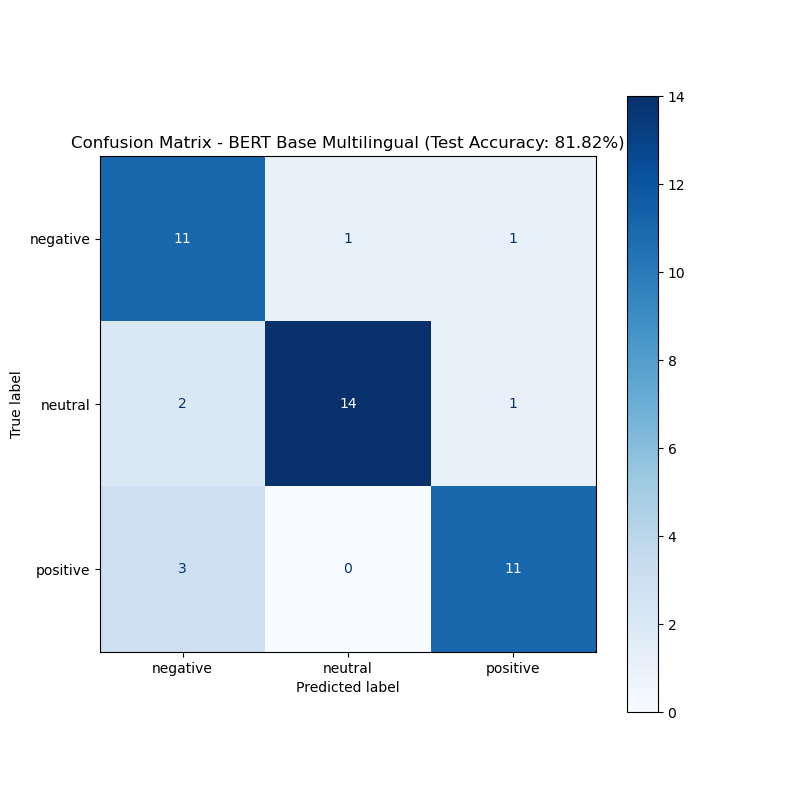
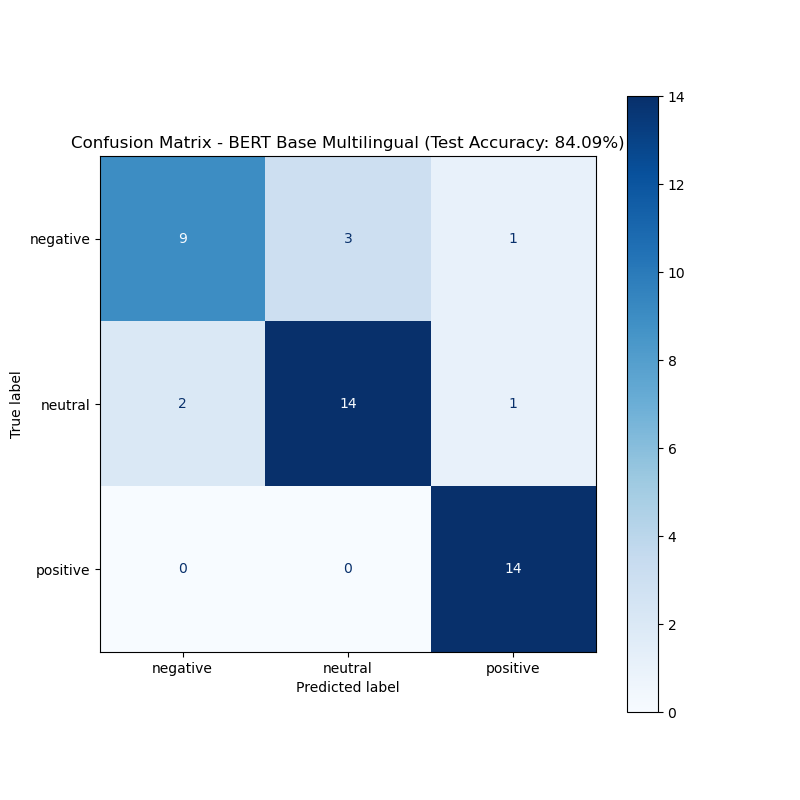
Optimize models: lock random seeds, restore configurations, and update results visualisations

diff --git a/Model/model_logistic_regression.py b/Model/model_logistic_regression.py
@@ -1,6 +1,20 @@
+import torch
 from common_utils import (
-    load_project_data, augment_text_data, class_names, RANDOM_STATE
+    load_project_data, augment_text_data, class_names
 )
+
+# --- CONFIGURATION & HYPERPARAMETERS ---
+BASE_PATH = '../'
+RANDOM_STATE = 12345
+BATCH_SIZE = 16 
+MAX_LEN = 64 
+NUM_EPOCHS = 20
+LEARNING_RATE = 1e-5
+WEIGHT_DECAY = 0.01
+WARMUP_STEPS = 500
+DEVICE = torch.device("cuda" if torch.cuda.is_available() else "cpu")
+MAX_FEATURES = 5000
+C_PARAM = 1.0
 from sklearn.model_selection import train_test_split
 from sklearn.feature_extraction.text import TfidfVectorizer
 from sklearn.linear_model import LogisticRegression
@@ -39,12 +53,12 @@ labels_data_encoded = train_data["sentiment_idx"].values
 )
 
 # TF-IDF Vectorization
-vectorizer = TfidfVectorizer(max_features=5000)
+vectorizer = TfidfVectorizer(max_features=MAX_FEATURES)
 X_train_tfidf = vectorizer.fit_transform(training_texts)
 X_test_tfidf = vectorizer.transform(testing_texts)
 
 # Initialize and Train Logistic Regression Model
-logreg_model = LogisticRegression(max_iter=1000, random_state=RANDOM_STATE, solver='liblinear') 
+logreg_model = LogisticRegression(max_iter=1000, random_state=RANDOM_STATE, solver='liblinear', C=C_PARAM) 
 logreg_model.fit(X_train_tfidf, training_labels)
 
 # Evaluate Logistic Regression Model

diff --git a/Model/model_naive_bayes.py b/Model/model_naive_bayes.py
@@ -1,6 +1,20 @@
+import torch
 from common_utils import (
-    load_project_data, augment_text_data, class_names, RANDOM_STATE
+    load_project_data, augment_text_data, class_names
 )
+
+# --- CONFIGURATION & HYPERPARAMETERS ---
+BASE_PATH = '../'
+RANDOM_STATE = 12345
+BATCH_SIZE = 16 
+MAX_LEN = 64 
+NUM_EPOCHS = 20
+LEARNING_RATE = 1e-5
+WEIGHT_DECAY = 0.01
+WARMUP_STEPS = 500
+DEVICE = torch.device("cuda" if torch.cuda.is_available() else "cpu")
+MAX_FEATURES = 5000
+ALPHA_PARAM = 1.0
 from sklearn.model_selection import train_test_split
 from sklearn.feature_extraction.text import TfidfVectorizer
 from sklearn.naive_bayes import MultinomialNB
@@ -39,12 +53,12 @@ labels_data_encoded = train_data["sentiment_idx"].values
 )
 
 # TF-IDF Vectorization
-vectorizer = TfidfVectorizer(max_features=5000)
+vectorizer = TfidfVectorizer(max_features=MAX_FEATURES)
 X_train_tfidf = vectorizer.fit_transform(training_texts)
 X_test_tfidf = vectorizer.transform(testing_texts)
 
 # Initialize and Train Multinomial Naive Bayes Model
-mnb_model = MultinomialNB()
+mnb_model = MultinomialNB(alpha=ALPHA_PARAM)
 mnb_model.fit(X_train_tfidf, training_labels)
 
 # Evaluate Multinomial Naive Bayes Model

diff --git a/Model/model_svm.py b/Model/model_svm.py
@@ -1,6 +1,21 @@
+import torch
 from common_utils import (
-    load_project_data, augment_text_data, class_names, RANDOM_STATE
+    load_project_data, augment_text_data, class_names
 )
+
+# --- CONFIGURATION & HYPERPARAMETERS ---
+
+BASE_PATH = '../'
+RANDOM_STATE = 12345
+BATCH_SIZE = 32 
+MAX_LEN = 64 
+NUM_EPOCHS = 16
+LEARNING_RATE = 1e-5
+WEIGHT_DECAY = 0.01
+WARMUP_STEPS = 500
+DEVICE = torch.device("cuda" if torch.cuda.is_available() else "cpu")
+MAX_FEATURES = 3000
+C_PARAM = 1.0
 from sklearn.model_selection import train_test_split
 from sklearn.feature_extraction.text import TfidfVectorizer
 from sklearn.svm import SVC
@@ -39,12 +54,12 @@ labels_data_encoded = train_data["sentiment_idx"].values
 )
 
 # TF-IDF Vectorization
-vectorizer = TfidfVectorizer(max_features=5000)
+vectorizer = TfidfVectorizer(max_features=MAX_FEATURES)
 X_train_tfidf = vectorizer.fit_transform(training_texts)
 X_test_tfidf = vectorizer.transform(testing_texts)
 
 # Initialize and Train SVM Model
-svm_model = SVC(kernel='linear', random_state=RANDOM_STATE)
+svm_model = SVC(kernel='linear', random_state=RANDOM_STATE, C=C_PARAM)
 svm_model.fit(X_train_tfidf, training_labels)
 
 # Evaluate SVM Model

diff --git a/Model/model_multilingual_bert.py b/Model/model_multilingual_bert.py
@@ -11,9 +11,19 @@ from transformers import AutoModelForSequenceClassification, AutoTokenizer, get_
 
 from common_utils import (
     load_project_data, augment_text_data, class_names, num_labels,
-    SentimentDataset, train_high_accuracy_model, evaluate_test,
-    RANDOM_STATE, MAX_LEN, BATCH_SIZE, DEVICE, LEARNING_RATE, WEIGHT_DECAY, NUM_EPOCHS, BASE_PATH
+    SentimentDataset, train_high_accuracy_model, evaluate_test
 )
+
+# --- CONFIGURATION & HYPERPARAMETERS ---
+BASE_PATH = '../'
+RANDOM_STATE = 12345
+BATCH_SIZE = 16 
+MAX_LEN = 64 
+NUM_EPOCHS = 20
+LEARNING_RATE = 1e-5
+WEIGHT_DECAY = 0.01
+WARMUP_STEPS = 500
+DEVICE = torch.device("cuda" if torch.cuda.is_available() else "cpu")
 
 print("--- Training BERT Base Multilingual Uncased Model ---")
 MODEL_NAME_MULTILINGUAL_BERT = "bert-base-multilingual-uncased"

diff --git a/Model/model_distilbert.py b/Model/model_distilbert.py
@@ -11,9 +11,19 @@ from transformers import AutoModelForSequenceClassification, AutoTokenizer, get_
 
 from common_utils import (
     load_project_data, augment_text_data, class_names, num_labels,
-    SentimentDataset, train_high_accuracy_model, evaluate_test,
-    RANDOM_STATE, MAX_LEN, BATCH_SIZE, DEVICE, LEARNING_RATE, WEIGHT_DECAY, NUM_EPOCHS, BASE_PATH
+    SentimentDataset, train_high_accuracy_model, evaluate_test
 )
+
+# --- CONFIGURATION & HYPERPARAMETERS ---
+BASE_PATH = '../'
+RANDOM_STATE = 12345
+BATCH_SIZE = 16 
+MAX_LEN = 64 
+NUM_EPOCHS = 15
+LEARNING_RATE = 2e-5
+WEIGHT_DECAY = 0.01
+WARMUP_STEPS = 500
+DEVICE = torch.device("cuda" if torch.cuda.is_available() else "cpu")
 
 print("--- Training DistilBERT Base Uncased Model ---")
 MODEL_NAME_DISTILBERT = "distilbert-base-uncased"

diff --git a/Model/model_roberta.py b/Model/model_roberta.py
@@ -11,9 +11,19 @@ from transformers import AutoModelForSequenceClassification, AutoTokenizer, get_
 
 from common_utils import (
     load_project_data, augment_text_data, class_names, num_labels,
-    SentimentDataset, train_high_accuracy_model, evaluate_test,
-    RANDOM_STATE, MAX_LEN, BATCH_SIZE, DEVICE, LEARNING_RATE, WEIGHT_DECAY, NUM_EPOCHS, BASE_PATH
+    SentimentDataset, train_high_accuracy_model, evaluate_test
 )
+
+# --- CONFIGURATION & HYPERPARAMETERS ---
+BASE_PATH = '../'
+RANDOM_STATE = 12345
+BATCH_SIZE = 16 
+MAX_LEN = 64 
+NUM_EPOCHS = 20
+LEARNING_RATE = 1e-5
+WEIGHT_DECAY = 0.01
+WARMUP_STEPS = 500
+DEVICE = torch.device("cuda" if torch.cuda.is_available() else "cpu")
 
 print("--- Training RoBERTa Model ---")
 MODEL_NAME = "cardiffnlp/twitter-xlm-roberta-base-sentiment"

diff --git a/Model/model_bert.py b/Model/model_bert.py
@@ -11,9 +11,19 @@ from transformers import AutoModelForSequenceClassification, AutoTokenizer, get_
 
 from common_utils import (
     load_project_data, augment_text_data, class_names, num_labels,
-    SentimentDataset, train_high_accuracy_model, evaluate_test,
-    RANDOM_STATE, MAX_LEN, BATCH_SIZE, DEVICE, LEARNING_RATE, WEIGHT_DECAY, NUM_EPOCHS, BASE_PATH
+    SentimentDataset, train_high_accuracy_model, evaluate_test
 )
+
+# --- CONFIGURATION & HYPERPARAMETERS ---
+BASE_PATH = '../'
+RANDOM_STATE = 12345
+BATCH_SIZE = 16 
+MAX_LEN = 64 
+NUM_EPOCHS = 20
+LEARNING_RATE = 1e-5
+WEIGHT_DECAY = 0.01
+WARMUP_STEPS = 500
+DEVICE = torch.device("cuda" if torch.cuda.is_available() else "cpu")
 
 print("--- Training BERT Base Uncased Model ---")
 MODEL_NAME_BERT = "bert-base-uncased"

diff --git a/Model/common_utils.py b/Model/common_utils.py
@@ -32,13 +32,16 @@ except LookupError:
 # Using local path for CSV files (parent directory)
 BASE_PATH = '../'
 RANDOM_STATE = 12345
-BATCH_SIZE = 16 
-MAX_LEN = 64 
-NUM_EPOCHS = 20
-LEARNING_RATE = 1e-5
-WEIGHT_DECAY = 0.01
-WARMUP_STEPS = 500
 DEVICE = torch.device("cuda" if torch.cuda.is_available() else "cpu")
+
+def set_seed(seed):
+    random.seed(seed)
+    np.random.seed(seed)
+    torch.manual_seed(seed)
+    if torch.cuda.is_available():
+        torch.cuda.manual_seed_all(seed)
+
+set_seed(RANDOM_STATE)
 
 class_names = ['negative', 'neutral', 'positive']
 num_labels = len(class_names)
